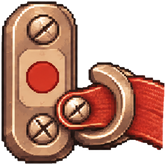
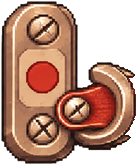
리본 걸기: 새 hook_done 그림 반영 (그림 크기를 파일에서 읽어 0.34배로)

diff --git a/dist/game/index.html b/dist/game/index.html
@@ -1379,7 +1379,7 @@ function bindM3(){
     const p=pt(e), h=near(p,RN), a=drag; drag=null;
     if(h&&h[1].id===a.id){ const b=h[1]; a.done=b.done=true; solved++; cur=null;
       linked.push({a:{x:SX,y:a.y},b:{x:EX,y:b.y},id:a.id});
-      b.im.setAttribute("href",A.hookDone[b.id]); b.im.setAttribute("width",166*.34); b.im.setAttribute("height",165*.34);
+      { const im=b.im, hd=new Image(); hd.onload=()=>{ im.setAttribute("width",hd.naturalWidth*.34); im.setAttribute("height",hd.naturalHeight*.34); im.setAttribute("href",hd.src); }; hd.src=A.hookDone[b.id]; }   // 그림 크기는 파일에서 읽어 같은 배율(0.34)로
       a.hit.style.cursor="default"; spark(640,b.y); kick();
       if(solved<4){ msg.className="msg ok"; msg.innerHTML=T(M.good,{남은:4-solved}); }
       else{ msg.className="msg ok"; msg.innerHTML=T(M.done);

diff --git a/game.js b/game.js
@@ -487,7 +487,7 @@ function bindM3(){
     const p=pt(e), h=near(p,RN), a=drag; drag=null;
     if(h&&h[1].id===a.id){ const b=h[1]; a.done=b.done=true; solved++; cur=null;
       linked.push({a:{x:SX,y:a.y},b:{x:EX,y:b.y},id:a.id});
-      b.im.setAttribute("href",A.hookDone[b.id]); b.im.setAttribute("width",166*.34); b.im.setAttribute("height",165*.34);
+      { const im=b.im, hd=new Image(); hd.onload=()=>{ im.setAttribute("width",hd.naturalWidth*.34); im.setAttribute("height",hd.naturalHeight*.34); im.setAttribute("href",hd.src); }; hd.src=A.hookDone[b.id]; }   // 그림 크기는 파일에서 읽어 같은 배율(0.34)로
       a.hit.style.cursor="default"; spark(640,b.y); kick();
       if(solved<4){ msg.className="msg ok"; msg.innerHTML=T(M.good,{남은:4-solved}); }
       else{ msg.className="msg ok"; msg.innerHTML=T(M.done);
